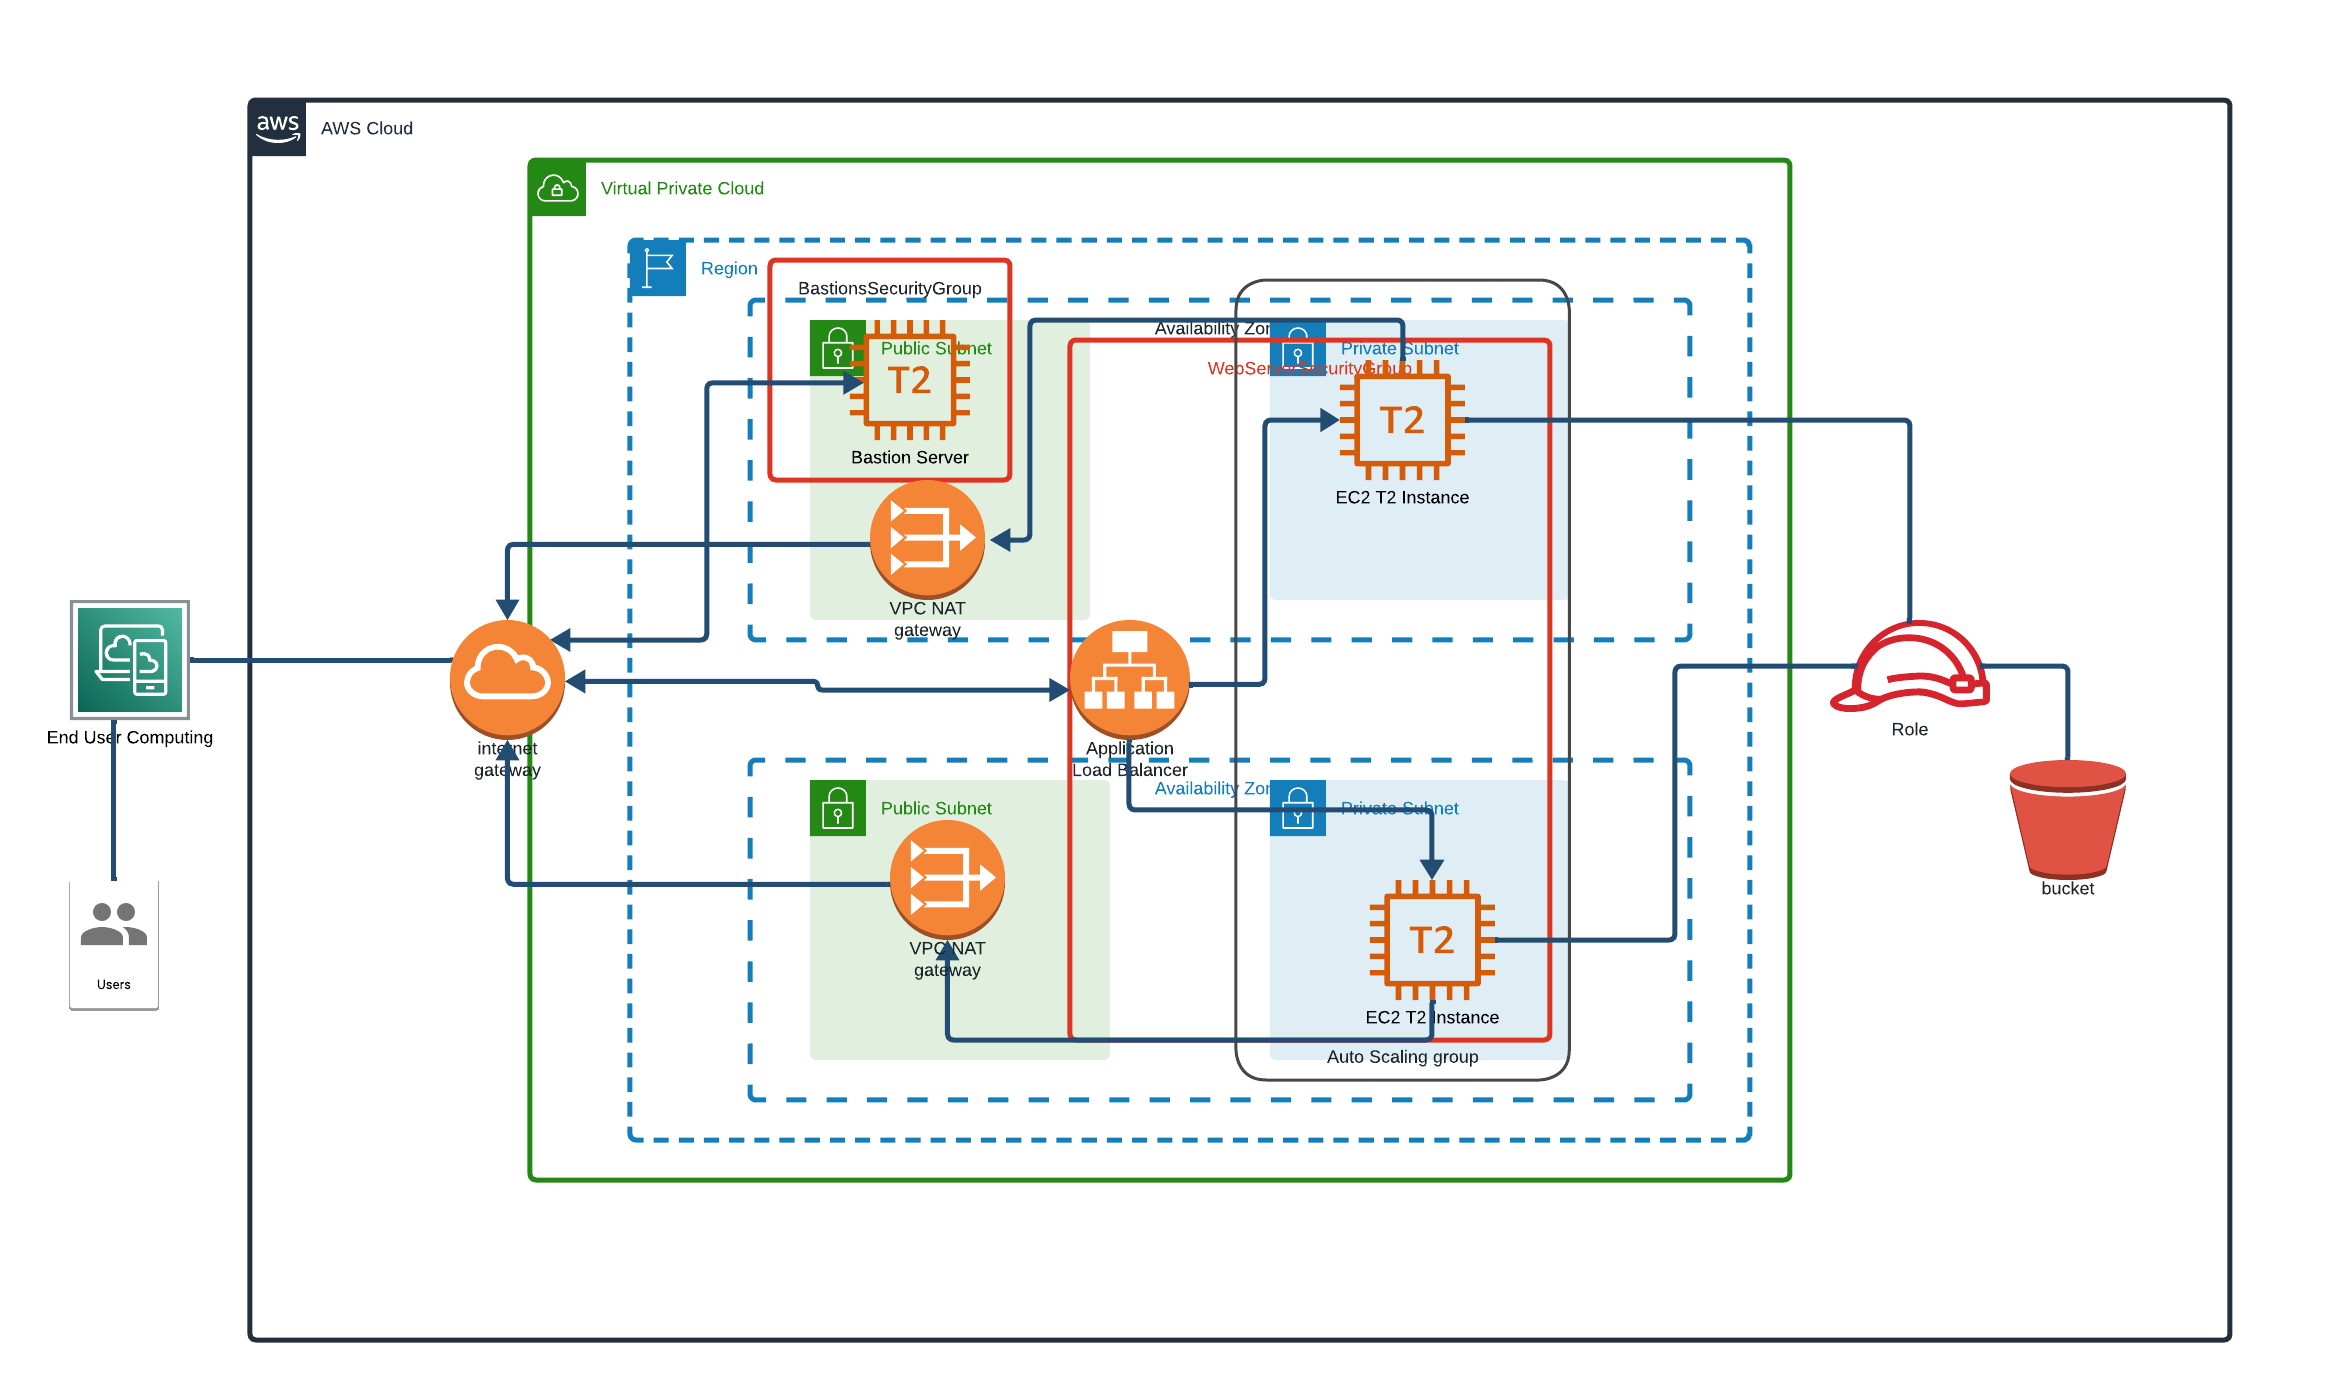
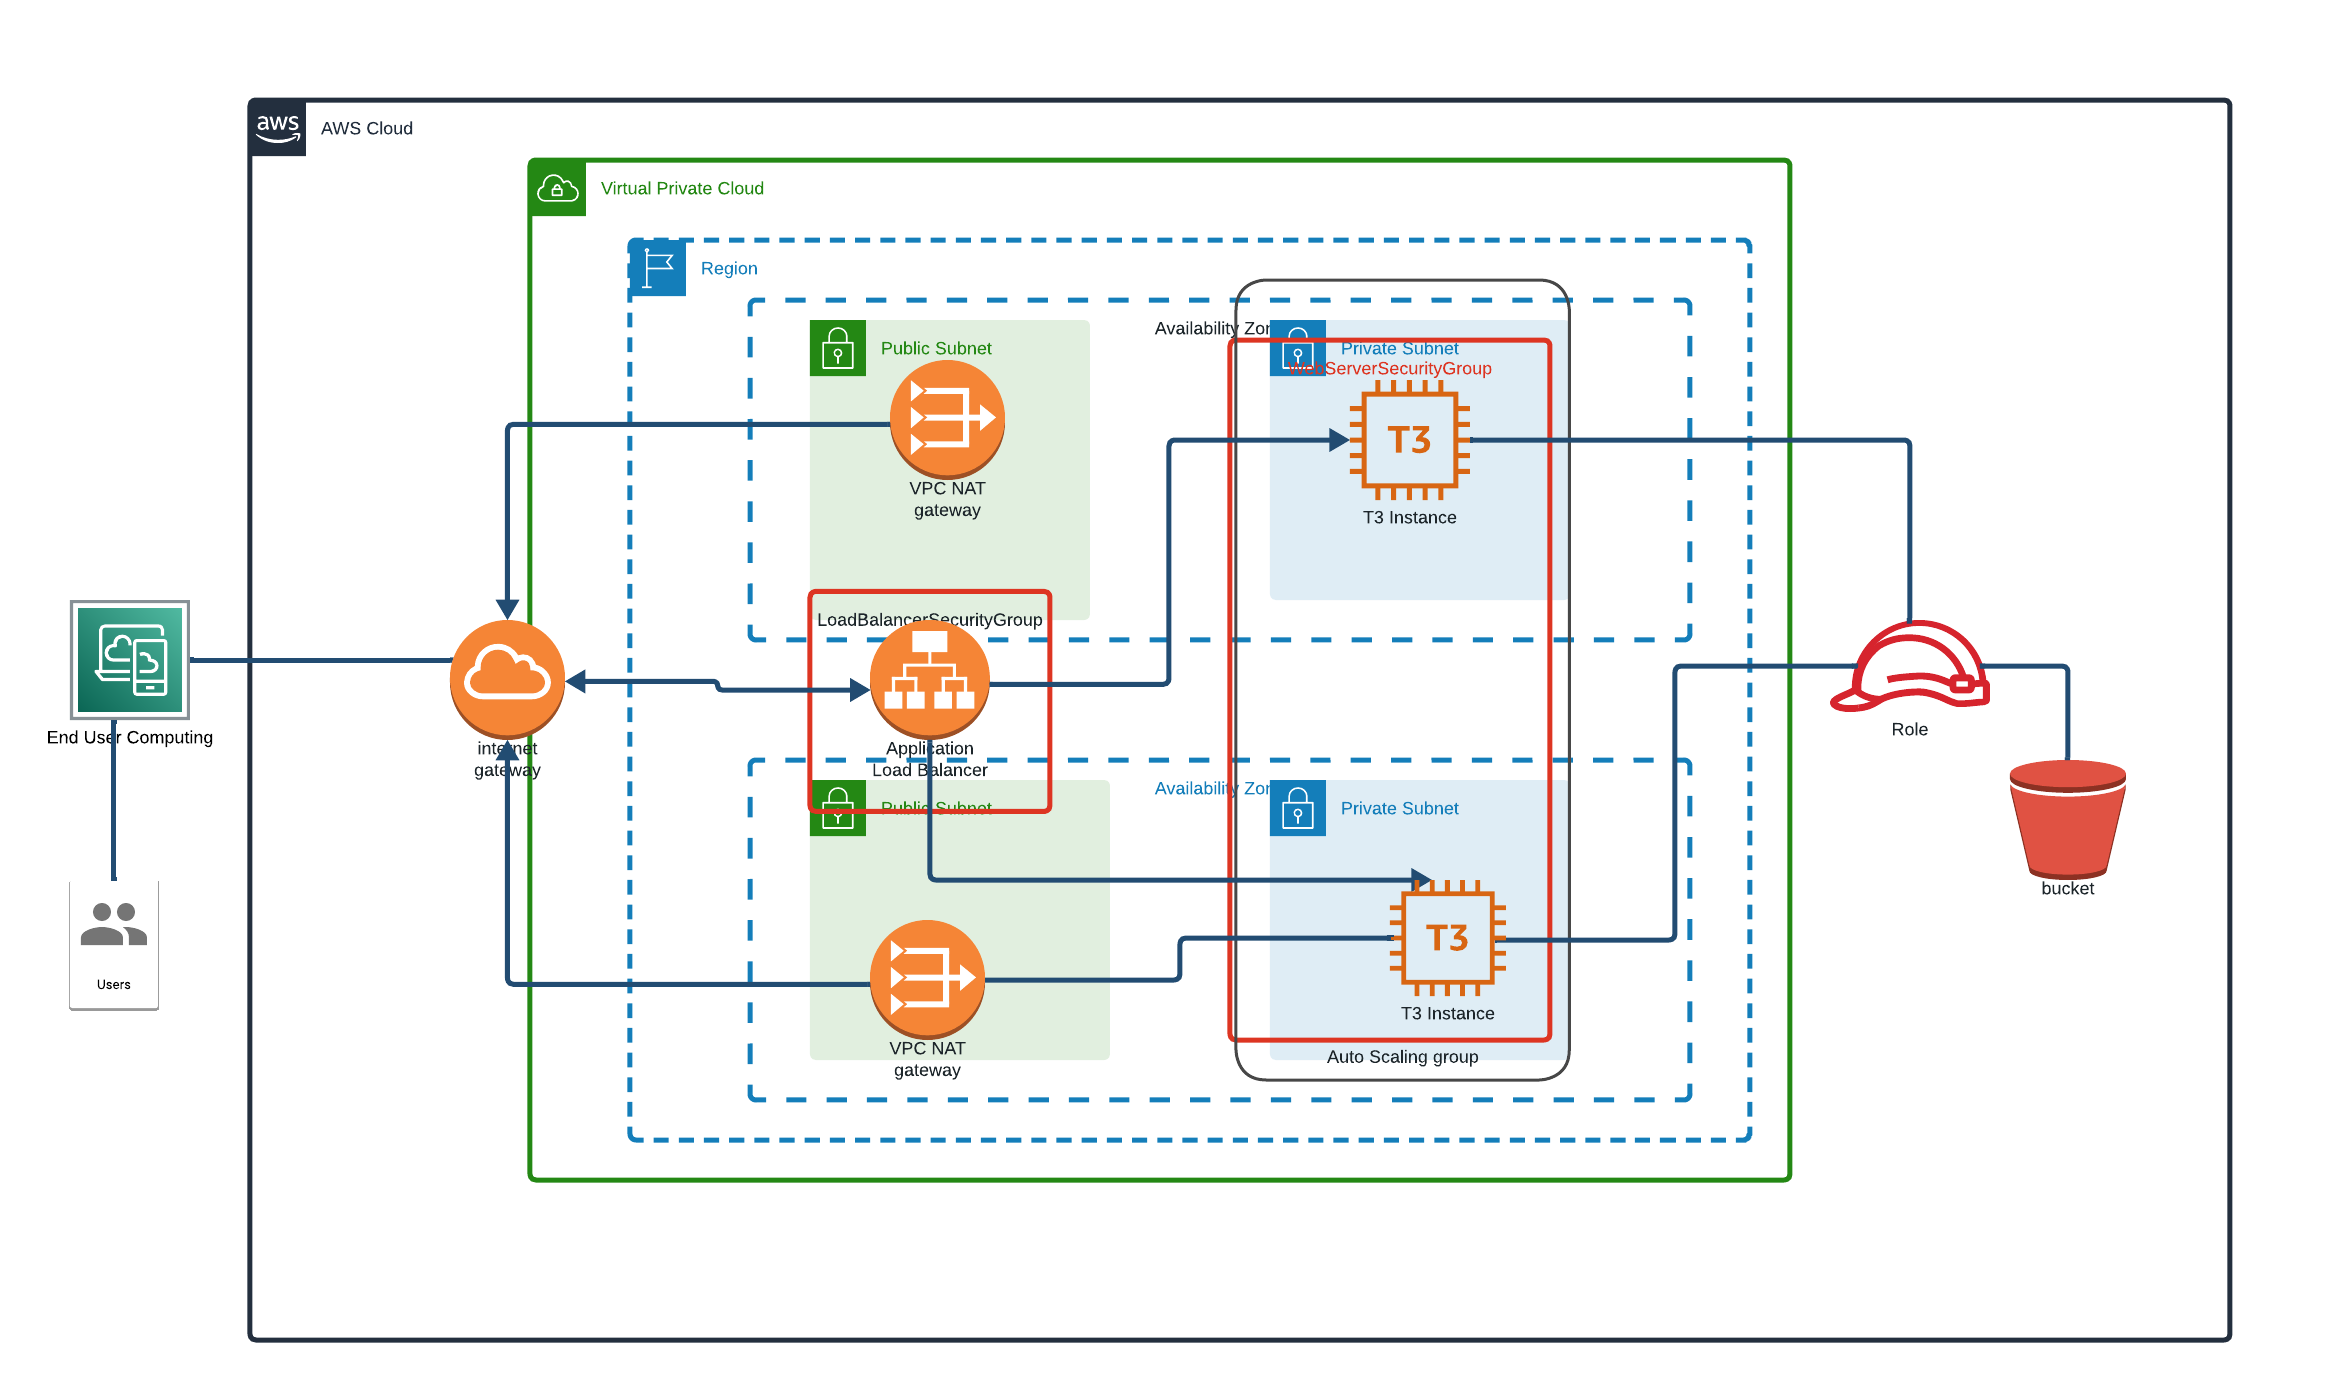
updates

Changed region(s): [[0.2183, 0.187, 0.8108, 0.779], [0.2495, 0.4362, 0.3118, 0.4674]]

diff --git a/README.md b/README.md
@@ -12,14 +12,9 @@ The deployment of the Udagram Stack must occur after the successful creation of 
 
 ## Below the APP infratructure architecture 
 
-![UDAGRAM Infratructure Architecture](diagram-updated.png)
+![UDAGRAM Infratructure Architecture](diagram.png)
 
 
-
-
-The current deployment is reachable at http://udagra-webap-xkxoi1o1mswu-1937440254.us-east-1.elb.amazonaws.com/
-
-Infrastructure was update to use t3.small instance. The use of t2.micro was due to  a confusion from the project requirements page
 
 ## Prerequisites
 
@@ -40,7 +35,7 @@ Infrastructure was update to use t3.small instance. The use of t2.micro was due 
    
    Both stacks configuration, parameters and output files are hard coded in the script .
 
-   The udagram-parameters file is updated everytime changes occur on nework stack, with network stack new outputs values and udagram-original-parameters content. The udagram-original-parameters.json file contains only values related to UDAGRAM stack.
+   The udagram-parameters file is updated everytime changes occur on network stack, with network stack new outputs values and udagram-original-parameters content. The udagram-original-parameters.json file contains only values related to UDAGRAM stack.
 
    The script requires two arguments to work ACTION and STACK
    
